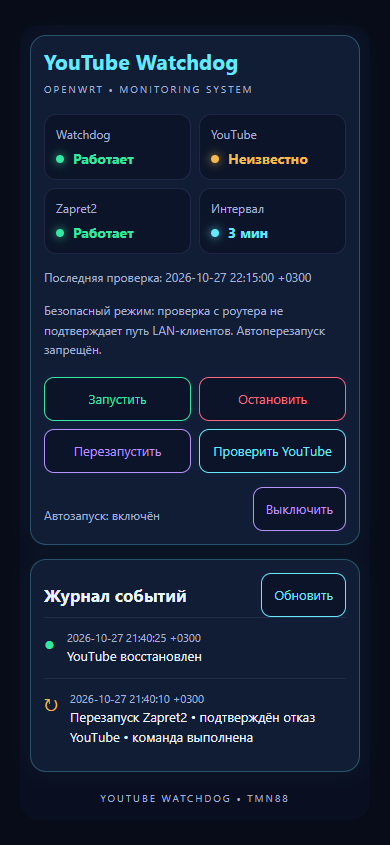
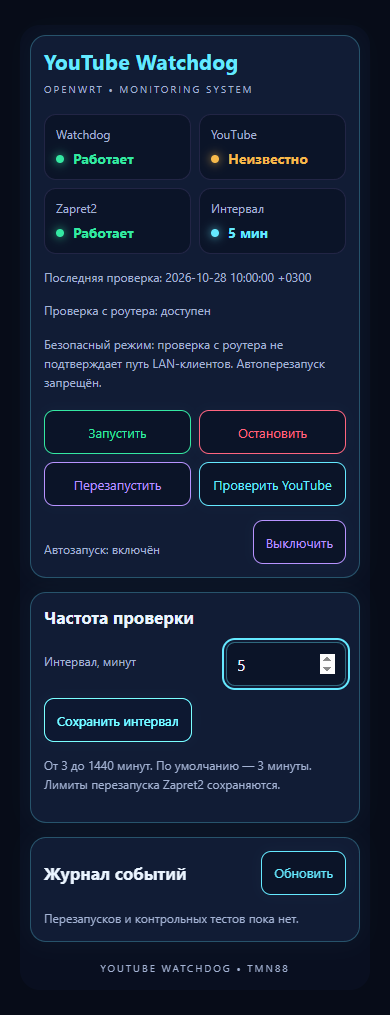
Add validated LuCI check interval settings and explicit router-local diagnosis (1.1.0)

diff --git a/preview.html b/preview.html
@@ -1,9 +1,18 @@
-<!doctype html><meta charset="utf-8"><meta name="viewport" content="width=device-width, initial-scale=1"><title>YouTube Watchdog — demo</title><body style="background:#070c18;margin:0;padding:20px"><script>
-var state={running:true,enabled:true,zapret_running:true,youtube:'UNKNOWN',reason:'router_local_only',interval:180,checked_at:'2026-10-27 22:15:00 +0300'};
-var entries={events:[{record:JSON.stringify({type:'control',at:'2026-10-27 21:40:25 +0300',status:'restored'})},{record:JSON.stringify({type:'restart',at:'2026-10-27 21:40:10 +0300',status:'success'})}]};
-window.calls=[];window.polls=[];
-var E=function(tag,attrs,children){var e=document.createElement(tag); Object.keys(attrs||{}).forEach(function(k){e.setAttribute(k,attrs[k])});if(children!=null)(Array.isArray(children)?children:[children]).forEach(function(c){e.appendChild(c instanceof Node?c:document.createTextNode(String(c)))});return e};
-var L={hasViewPermission:function(){return true}},ui={},poll={add:function(f){window.polls.push(f)}},view={extend:function(v){return v}},rpc={declare:function(o){return function(){calls.push(o.method);if(o.method==='status')return Promise.resolve(state);if(o.method==='logs')return Promise.resolve(entries);if(o.method==='stop')state.running=false;if(o.method==='start'||o.method==='restart')state.running=true;if(o.method==='enable')state.enabled=true;if(o.method==='disable')state.enabled=false;return Promise.resolve({ok:true})}}};
+<!doctype html><meta charset="utf-8"><meta name="viewport" content="width=device-width, initial-scale=1"><title>YouTube Watchdog — демонстрационные данные</title><body style="background:#070c18;margin:0;padding:20px"><script>
+window.writeAllowed=true;window.calls=[];window.polls=[];window.failInterval=false;
+var state={running:true,enabled:true,zapret_running:true,youtube:'UNKNOWN',local_probe:'HEALTHY',reason:'router_local_only',interval:180,checked_at:'2026-10-28 10:00:00 +0300'};
+var entries={events:[]};
+var E=function(tag,attrs,children){var e=document.createElement(tag);Object.keys(attrs||{}).forEach(function(k){e.setAttribute(k,attrs[k])});if(children!=null)(Array.isArray(children)?children:[children]).forEach(function(c){e.appendChild(c instanceof Node?c:document.createTextNode(String(c)))});return e};
+var L={hasViewPermission:function(){return window.writeAllowed}},ui={},poll={add:function(f){window.polls.push(f)}},view={extend:function(v){return v}},rpc={declare:function(o){return function(minutes){
+ calls.push({method:o.method,minutes:minutes});
+ if(o.method==='status')return Promise.resolve(state);
+ if(o.method==='logs')return Promise.resolve(entries);
+ if(o.method==='set_interval')return new Promise(function(resolve){setTimeout(function(){if(window.failInterval)return resolve({ok:false,message:'Ошибка тестового сохранения'});state.interval=minutes*60;resolve({ok:true});},80)});
+ if(o.method==='stop')state.running=false;
+ if(o.method==='start'||o.method==='restart')state.running=true;
+ if(o.method==='enable')state.enabled=true;if(o.method==='disable')state.enabled=false;
+ return Promise.resolve({ok:true});
+}}};
 var app=(function(){'use strict';
 'require view';
 'require rpc';
@@ -12,6 +21,7 @@ var app=(function(){'use strict';
 
 var statusCall = rpc.declare({ object: 'youtube-watchdog', method: 'status', expect: {} });
 var logsCall = rpc.declare({ object: 'youtube-watchdog', method: 'logs', expect: {} });
+var setIntervalCall = rpc.declare({ object: 'youtube-watchdog', method: 'set_interval', params: ['minutes'], expect: {} });
 var actions = {};
 ['start', 'stop', 'restart', 'enable', 'disable', 'check'].forEach(function(name) {
     actions[name] = rpc.declare({ object: 'youtube-watchdog', method: name, expect: {} });
@@ -39,6 +49,9 @@ var css = `
 .youtube-watchdog-icon{font-size:18px}.youtube-watchdog-time{color:#A4B3D4;font-size:11px}
 .youtube-watchdog-footer{text-align:center;color:#A4B3D4;font-size:10px;letter-spacing:2px;padding:5px}
 .youtube-watchdog-error{color:#FF657F;margin-top:12px;font-size:13px}
+.youtube-watchdog-root .youtube-watchdog-input{background:#0B1428;color:#EAF4FF;border:1px solid #65E9FF66;border-radius:9px;padding:10px;width:120px;min-height:44px;font:inherit}
+.youtube-watchdog-root .youtube-watchdog-input:focus{outline:2px solid #65E9FF;outline-offset:2px}
+.youtube-watchdog-root .youtube-watchdog-input:disabled{opacity:.5}
 @media(max-width:480px){.youtube-watchdog-root{padding:10px;margin:5px 0}.youtube-watchdog-card{padding:13px}.youtube-watchdog-title{font-size:21px}.youtube-watchdog-tile{padding:11px}.youtube-watchdog-value{font-size:14px}.youtube-watchdog-grid{gap:8px}}
 `;
 return view.extend({
@@ -52,7 +65,11 @@ return view.extend({
         var journal = E('div', { 'class': 'youtube-watchdog-card' });
         var error = E('div', { 'class': 'youtube-watchdog-error', 'role': 'alert' });
         var buttons = [];
-        function disable(value) { buttons.forEach(function(b) { b.disabled = value || (!canWrite && b.dataset.write === '1'); }); }
+        var settingsControls = [];
+        function disable(value) {
+            buttons.forEach(function(b) { b.disabled = value || (!canWrite && b.dataset.write === '1'); });
+            settingsControls.forEach(function(b) { b.disabled = busy || !canWrite; });
+        }
         function button(text, color, action) {
             var b = E('button', { 'class': 'youtube-watchdog-button youtube-watchdog-' + color, 'type': 'button' }, text);
             b.dataset.write = action === 'refresh' ? '0' : '1';
@@ -62,7 +79,7 @@ return view.extend({
                 Promise.resolve().then(function() {
                     return action === 'refresh' ? null : actions[action]();
                 }).then(function(result) {
-                    if (result && !result.ok) throw new Error('Действие не выполнено. Возможно, уже идёт проверка.');
+                    if (result && !result.ok) throw new Error(result.message || 'Действие не выполнено. Возможно, уже идёт проверка.');
                     // check is queued server-side; all measurements remain in the backend.
                     return refresh();
                 }).catch(function(e) {
@@ -87,9 +104,11 @@ return view.extend({
                 tile('Watchdog', s.running ? 'Работает' : 'Остановлен', s.running ? 'ok' : 'bad'),
                 tile('YouTube', yt, y === 'HEALTHY' ? 'ok' : y === 'YOUTUBE_DOWN' ? 'bad' : 'warn'),
                 tile('Zapret2', s.zapret_running ? 'Работает' : 'Остановлен', s.zapret_running ? 'ok' : 'bad'),
-                tile('Интервал', String(Math.round((s.interval || 180) / 60)) + ' мин', 'cyan')
+                tile('Интервал', (s.interval || 180) % 60 ? String(s.interval) + ' сек' : String((s.interval || 180) / 60) + ' мин', 'cyan')
             ]));
             stateCard.appendChild(E('div', { 'class': 'youtube-watchdog-meta' }, 'Последняя проверка: ' + (s.checked_at || '—') + (s.checking ? ' • Проверка выполняется…' : '')));
+            var localText = { HEALTHY: 'доступен', YOUTUBE_DOWN: 'недоступен', DNS_DOWN: 'ошибка DNS', NETWORK_DOWN: 'ошибка сети', UNKNOWN: 'нет достоверного результата' };
+            stateCard.appendChild(E('div', { 'class': 'youtube-watchdog-meta' }, 'Проверка с роутера: ' + (localText[s.local_probe] || 'нет достоверного результата')));
             var notice = s.reason === 'router_local_only'
                 ? 'Безопасный режим: проверка с роутера не подтверждает путь LAN-клиентов. Автоперезапуск запрещён.'
                 : 'Проверяется доступность HTTPS с диагностического клиента. Воспроизведение видео не гарантируется.';
@@ -111,6 +130,36 @@ return view.extend({
         var events = E('div');
         journal.appendChild(E('div', { 'class': 'youtube-watchdog-row' }, [E('span', { 'class': 'youtube-watchdog-heading' }, 'Журнал событий'), button('Обновить', 'cyan', 'refresh')]));
         journal.appendChild(events);
+        var dirtyInterval = false;
+        var intervalInput = E('input', { 'class': 'youtube-watchdog-input', 'id': 'youtube-watchdog-interval', 'type': 'number', 'min': '3', 'max': '1440', 'step': '1', 'inputmode': 'numeric', 'aria-describedby': 'youtube-watchdog-interval-help' });
+        intervalInput.value = String(Math.ceil((data[0].interval || 180) / 60));
+        var intervalNotice = E('div', { 'class': 'youtube-watchdog-meta', 'aria-live': 'polite' });
+        intervalInput.oninput = function() { dirtyInterval = true; intervalNotice.textContent = ''; };
+        var saveInterval = E('button', { 'class': 'youtube-watchdog-button youtube-watchdog-cyan', 'type': 'button' }, 'Сохранить интервал');
+        saveInterval.onclick = function() {
+            if (busy || !canWrite) return;
+            var raw = intervalInput.value.trim(), minutes = Number(raw);
+            if (!/^[0-9]+$/.test(raw) || minutes < 3 || minutes > 1440) {
+                intervalNotice.textContent = 'Укажите целое число минут от 3 до 1440.'; return;
+            }
+            busy = true; disable(true); error.textContent = ''; intervalNotice.textContent = 'Сохранение…';
+            Promise.resolve().then(function() { return setIntervalCall(minutes); }).then(function(result) {
+                if (!result.ok) throw new Error(result.message || 'Не удалось сохранить интервал');
+                dirtyInterval = false;
+                intervalNotice.textContent = 'Интервал сохранён: ' + minutes + ' мин. Применяется автоматически, без перезапуска службы.';
+                return refresh();
+            }).catch(function(e) { intervalNotice.textContent = e.message || String(e); }).finally(function() {
+                busy = false; disable(serverBusy);
+            });
+        };
+        settingsControls.push(intervalInput, saveInterval);
+        var settings = E('div', { 'class': 'youtube-watchdog-card' }, [
+            E('div', { 'class': 'youtube-watchdog-heading' }, 'Частота проверки'),
+            E('div', { 'class': 'youtube-watchdog-row', 'style': 'margin-top:14px' }, [
+                E('label', { 'for': 'youtube-watchdog-interval', 'class': 'youtube-watchdog-label' }, 'Интервал, минут'), intervalInput, saveInterval
+            ]),
+            E('div', { 'class': 'youtube-watchdog-meta', 'id': 'youtube-watchdog-interval-help' }, 'От 3 до 1440 минут. По умолчанию — 3 минуты. Лимиты перезапуска Zapret2 сохраняются.'), intervalNotice
+        ]);
         function drawLogs(l) {
             events.textContent = '';
             (l.events || []).forEach(function(item) {
@@ -128,10 +177,14 @@ return view.extend({
             if (!events.childNodes.length) events.appendChild(E('div', { 'class': 'youtube-watchdog-meta' }, 'Перезапусков и контрольных тестов пока нет.'));
         }
         function refresh() {
-            return Promise.all([statusCall(), logsCall()]).then(function(d) { drawStatus(d[0]); drawLogs(d[1]); disable(busy || !!d[0].checking); });
+            return Promise.all([statusCall(), logsCall()]).then(function(d) {
+                drawStatus(d[0]); drawLogs(d[1]);
+                if (!dirtyInterval && document.activeElement !== intervalInput) intervalInput.value = String(Math.ceil((d[0].interval || 180) / 60));
+                disable(busy || !!d[0].checking);
+            });
         }
         drawStatus(data[0]); drawLogs(data[1]); disable(serverBusy);
-        root.appendChild(stateCard); root.appendChild(journal); root.appendChild(error);
+        root.appendChild(stateCard); root.appendChild(settings); root.appendChild(journal); root.appendChild(error);
         root.appendChild(E('div', { 'class': 'youtube-watchdog-footer' }, 'YOUTUBE WATCHDOG • TMN88'));
         poll.add(function() { if (!busy) return refresh().catch(function(e) { error.textContent = 'Ошибка обновления: ' + e.message; }); }, 5);
         return root;

diff --git a/files/overview.js b/files/overview.js
@@ -6,6 +6,7 @@
 
 var statusCall = rpc.declare({ object: 'youtube-watchdog', method: 'status', expect: {} });
 var logsCall = rpc.declare({ object: 'youtube-watchdog', method: 'logs', expect: {} });
+var setIntervalCall = rpc.declare({ object: 'youtube-watchdog', method: 'set_interval', params: ['minutes'], expect: {} });
 var actions = {};
 ['start', 'stop', 'restart', 'enable', 'disable', 'check'].forEach(function(name) {
     actions[name] = rpc.declare({ object: 'youtube-watchdog', method: name, expect: {} });
@@ -33,6 +34,9 @@ var css = `
 .youtube-watchdog-icon{font-size:18px}.youtube-watchdog-time{color:#A4B3D4;font-size:11px}
 .youtube-watchdog-footer{text-align:center;color:#A4B3D4;font-size:10px;letter-spacing:2px;padding:5px}
 .youtube-watchdog-error{color:#FF657F;margin-top:12px;font-size:13px}
+.youtube-watchdog-root .youtube-watchdog-input{background:#0B1428;color:#EAF4FF;border:1px solid #65E9FF66;border-radius:9px;padding:10px;width:120px;min-height:44px;font:inherit}
+.youtube-watchdog-root .youtube-watchdog-input:focus{outline:2px solid #65E9FF;outline-offset:2px}
+.youtube-watchdog-root .youtube-watchdog-input:disabled{opacity:.5}
 @media(max-width:480px){.youtube-watchdog-root{padding:10px;margin:5px 0}.youtube-watchdog-card{padding:13px}.youtube-watchdog-title{font-size:21px}.youtube-watchdog-tile{padding:11px}.youtube-watchdog-value{font-size:14px}.youtube-watchdog-grid{gap:8px}}
 `;
 return view.extend({
@@ -46,7 +50,11 @@ return view.extend({
         var journal = E('div', { 'class': 'youtube-watchdog-card' });
         var error = E('div', { 'class': 'youtube-watchdog-error', 'role': 'alert' });
         var buttons = [];
-        function disable(value) { buttons.forEach(function(b) { b.disabled = value || (!canWrite && b.dataset.write === '1'); }); }
+        var settingsControls = [];
+        function disable(value) {
+            buttons.forEach(function(b) { b.disabled = value || (!canWrite && b.dataset.write === '1'); });
+            settingsControls.forEach(function(b) { b.disabled = busy || !canWrite; });
+        }
         function button(text, color, action) {
             var b = E('button', { 'class': 'youtube-watchdog-button youtube-watchdog-' + color, 'type': 'button' }, text);
             b.dataset.write = action === 'refresh' ? '0' : '1';
@@ -56,7 +64,7 @@ return view.extend({
                 Promise.resolve().then(function() {
                     return action === 'refresh' ? null : actions[action]();
                 }).then(function(result) {
-                    if (result && !result.ok) throw new Error('Действие не выполнено. Возможно, уже идёт проверка.');
+                    if (result && !result.ok) throw new Error(result.message || 'Действие не выполнено. Возможно, уже идёт проверка.');
                     // check is queued server-side; all measurements remain in the backend.
                     return refresh();
                 }).catch(function(e) {
@@ -81,9 +89,11 @@ return view.extend({
                 tile('Watchdog', s.running ? 'Работает' : 'Остановлен', s.running ? 'ok' : 'bad'),
                 tile('YouTube', yt, y === 'HEALTHY' ? 'ok' : y === 'YOUTUBE_DOWN' ? 'bad' : 'warn'),
                 tile('Zapret2', s.zapret_running ? 'Работает' : 'Остановлен', s.zapret_running ? 'ok' : 'bad'),
-                tile('Интервал', String(Math.round((s.interval || 180) / 60)) + ' мин', 'cyan')
+                tile('Интервал', (s.interval || 180) % 60 ? String(s.interval) + ' сек' : String((s.interval || 180) / 60) + ' мин', 'cyan')
             ]));
             stateCard.appendChild(E('div', { 'class': 'youtube-watchdog-meta' }, 'Последняя проверка: ' + (s.checked_at || '—') + (s.checking ? ' • Проверка выполняется…' : '')));
+            var localText = { HEALTHY: 'доступен', YOUTUBE_DOWN: 'недоступен', DNS_DOWN: 'ошибка DNS', NETWORK_DOWN: 'ошибка сети', UNKNOWN: 'нет достоверного результата' };
+            stateCard.appendChild(E('div', { 'class': 'youtube-watchdog-meta' }, 'Проверка с роутера: ' + (localText[s.local_probe] || 'нет достоверного результата')));
             var notice = s.reason === 'router_local_only'
                 ? 'Безопасный режим: проверка с роутера не подтверждает путь LAN-клиентов. Автоперезапуск запрещён.'
                 : 'Проверяется доступность HTTPS с диагностического клиента. Воспроизведение видео не гарантируется.';
@@ -105,6 +115,36 @@ return view.extend({
         var events = E('div');
         journal.appendChild(E('div', { 'class': 'youtube-watchdog-row' }, [E('span', { 'class': 'youtube-watchdog-heading' }, 'Журнал событий'), button('Обновить', 'cyan', 'refresh')]));
         journal.appendChild(events);
+        var dirtyInterval = false;
+        var intervalInput = E('input', { 'class': 'youtube-watchdog-input', 'id': 'youtube-watchdog-interval', 'type': 'number', 'min': '3', 'max': '1440', 'step': '1', 'inputmode': 'numeric', 'aria-describedby': 'youtube-watchdog-interval-help' });
+        intervalInput.value = String(Math.ceil((data[0].interval || 180) / 60));
+        var intervalNotice = E('div', { 'class': 'youtube-watchdog-meta', 'aria-live': 'polite' });
+        intervalInput.oninput = function() { dirtyInterval = true; intervalNotice.textContent = ''; };
+        var saveInterval = E('button', { 'class': 'youtube-watchdog-button youtube-watchdog-cyan', 'type': 'button' }, 'Сохранить интервал');
+        saveInterval.onclick = function() {
+            if (busy || !canWrite) return;
+            var raw = intervalInput.value.trim(), minutes = Number(raw);
+            if (!/^[0-9]+$/.test(raw) || minutes < 3 || minutes > 1440) {
+                intervalNotice.textContent = 'Укажите целое число минут от 3 до 1440.'; return;
+            }
+            busy = true; disable(true); error.textContent = ''; intervalNotice.textContent = 'Сохранение…';
+            Promise.resolve().then(function() { return setIntervalCall(minutes); }).then(function(result) {
+                if (!result.ok) throw new Error(result.message || 'Не удалось сохранить интервал');
+                dirtyInterval = false;
+                intervalNotice.textContent = 'Интервал сохранён: ' + minutes + ' мин. Применяется автоматически, без перезапуска службы.';
+                return refresh();
+            }).catch(function(e) { intervalNotice.textContent = e.message || String(e); }).finally(function() {
+                busy = false; disable(serverBusy);
+            });
+        };
+        settingsControls.push(intervalInput, saveInterval);
+        var settings = E('div', { 'class': 'youtube-watchdog-card' }, [
+            E('div', { 'class': 'youtube-watchdog-heading' }, 'Частота проверки'),
+            E('div', { 'class': 'youtube-watchdog-row', 'style': 'margin-top:14px' }, [
+                E('label', { 'for': 'youtube-watchdog-interval', 'class': 'youtube-watchdog-label' }, 'Интервал, минут'), intervalInput, saveInterval
+            ]),
+            E('div', { 'class': 'youtube-watchdog-meta', 'id': 'youtube-watchdog-interval-help' }, 'От 3 до 1440 минут. По умолчанию — 3 минуты. Лимиты перезапуска Zapret2 сохраняются.'), intervalNotice
+        ]);
         function drawLogs(l) {
             events.textContent = '';
             (l.events || []).forEach(function(item) {
@@ -122,10 +162,14 @@ return view.extend({
             if (!events.childNodes.length) events.appendChild(E('div', { 'class': 'youtube-watchdog-meta' }, 'Перезапусков и контрольных тестов пока нет.'));
         }
         function refresh() {
-            return Promise.all([statusCall(), logsCall()]).then(function(d) { drawStatus(d[0]); drawLogs(d[1]); disable(busy || !!d[0].checking); });
+            return Promise.all([statusCall(), logsCall()]).then(function(d) {
+                drawStatus(d[0]); drawLogs(d[1]);
+                if (!dirtyInterval && document.activeElement !== intervalInput) intervalInput.value = String(Math.ceil((d[0].interval || 180) / 60));
+                disable(busy || !!d[0].checking);
+            });
         }
         drawStatus(data[0]); drawLogs(data[1]); disable(serverBusy);
-        root.appendChild(stateCard); root.appendChild(journal); root.appendChild(error);
+        root.appendChild(stateCard); root.appendChild(settings); root.appendChild(journal); root.appendChild(error);
         root.appendChild(E('div', { 'class': 'youtube-watchdog-footer' }, 'YOUTUBE WATCHDOG • TMN88'));
         poll.add(function() { if (!busy) return refresh().catch(function(e) { error.textContent = 'Ошибка обновления: ' + e.message; }); }, 5);
         return root;

diff --git a/README.md b/README.md
@@ -12,7 +12,7 @@
 wget -O /tmp/youtube-watchdog-install.sh https://raw.githubusercontent.com/TMN88/youtube-watchdog/main/install.sh && sh /tmp/youtube-watchdog-install.sh
 ```
 
-Выполнять от root на OpenWrt с LuCI. Установщик проверяет версию, определяет apk/opkg, устанавливает только недостающие `curl ca-bundle flock rpcd luci-base`, скачивает комплект **1.0.0** по закреплённому commit, сверяет SHA256SUMS, проверяет shell и JSON, размещает файлы и регистрирует RPC. Затем включает автозапуск и запускает Watchdog. Если LuCI уже открыта, обновите вкладку. Отдельная Custom Commands не требуется.
+Выполнять от root на OpenWrt с LuCI. Установщик проверяет версию, определяет apk/opkg, устанавливает только недостающие `curl ca-bundle flock rpcd luci-base` (и `coreutils-timeout`, если нет команды timeout), скачивает комплект **1.1.0** по закреплённому commit, сверяет SHA256SUMS, проверяет shell и JSON, размещает файлы и регистрирует RPC. Затем включает автозапуск и запускает Watchdog. Если LuCI уже открыта, обновите вкладку. Отдельная Custom Commands не требуется.
 
 При повторной установке существующий `/etc/config/youtube-watchdog` сохраняется целиком. Файлы предыдущей версии сохраняются во временной папке до окончания установки; ошибка применения вызывает откат файлов и прежнего состояния службы. Зависимости не удаляются при откате. SHA256SUMS защищает от неполной/несогласованной загрузки; это не независимая цифровая подпись.
 
@@ -25,6 +25,12 @@ wget -O /tmp/youtube-watchdog-install.sh https://raw.githubusercontent.com/TMN88
 ### Исправление установщика 1.0.2
 
 Установщик освобождает блокировку проверки перед запуском procd-службы. В версиях до 1.0.2 первый фоновый цикл мог пропускаться, пока установщик ещё держал блокировку, поэтому время первой проверки появлялось только после следующего интервала или ручного `youtube-watchdog check`. Переустановка для уже работающей службы не обязательна: ручная проверка безопасна и не перезапускает Zapret2. Если локальная проверка прошла, `local_probe` показывает HEALTHY, но в безопасном режиме клиентский `youtube` остаётся UNKNOWN.
+
+### Настройка частоты — 1.1.0
+
+В LuCI → Службы → YouTube Watchdog появилась карточка **«Частота проверки»**. Укажите целое число от **3 до 1440 минут** и нажмите **«Сохранить интервал»**. По умолчанию — 3 минуты. Настройка сохраняется в собственный UCI-параметр Watchdog и подхватывается работающим демоном без перезапуска: ожидание следующей проверки пересчитывается в течение 5 секунд. Выполняющийся сетевой тест не прерывается. При увеличении интервала ожидание продлевается, при уменьшении уже истёкшего интервала проверка запускается после обработки изменения. Повторное сохранение того же значения не записывает UCI заново. Неверный тип, дробь и значения вне диапазона отклоняются сервером; RPC может изменять только этот параметр.
+
+Изменение интервала не меняет лимиты восстановления Zapret2. Поле ввода не сбрасывается при автоматическом обновлении страницы. Строка **«Проверка с роутера»** отдельно показывает локальную диагностику; верхний клиентский статус YouTube в безопасном режиме остаётся UNKNOWN. Доступность HTTPS с роутера не доказывает воспроизведение видео у клиентов.
 
 ## Работа
 
@@ -69,7 +75,7 @@ config watchdog 'main'
     option client_confirmed '0'
 ```
 
-Интервал ограничен диапазоном 180–86400 секунд; некорректное значение заменяется на 180. Изменения применяются в следующем цикле; можно выполнить `/etc/init.d/youtube-watchdog restart`. Предыдущий результат после изменения UCI или истечения срока годности отображается как UNKNOWN. Причины представлены стабильными кодами в `status`.
+В UCI интервал хранится в секундах: диапазон 180–86400; некорректное значение заменяется на 180. В LuCI настройка задаётся целыми минутами и применяется автоматически. При ручном редактировании UCI можно выполнить `/etc/init.d/youtube-watchdog restart`, чтобы применить изменение сразу. Предыдущий результат после изменения UCI или истечения срока годности отображается как UNKNOWN. Причины представлены стабильными кодами в `status`.
 
 ## Удаление
 
@@ -87,7 +93,7 @@ wget -O /tmp/youtube-watchdog-uninstall.sh https://raw.githubusercontent.com/TMN
 
 ## Интерфейс
 
-Реальный JavaScript view LuCI, собственный RPC объект `youtube-watchdog`, ACL только на восемь фиксированных методов; без доступа к произвольным файлам, командам или записи UCI через браузер. Непривилегированным сессиям без write-доступа управление недоступно. Все данные журнала выводятся текстом, без вставки HTML. Стили ограничены префиксом `youtube-watchdog-`, системные шрифты, без внешних ресурсов.
+Реальный JavaScript view LuCI, собственный RPC объект `youtube-watchdog`, ACL только на девять фиксированных методов. Нет доступа к произвольным файлам, командам или произвольной записи UCI через браузер; метод настройки может менять только интервал Watchdog и проверяет тип и диапазон значения. Непривилегированным сессиям без write-доступа управление недоступно. Все данные журнала выводятся текстом, без вставки HTML. Стили ограничены префиксом `youtube-watchdog-`, системные шрифты, без внешних ресурсов.
 
 ![Демонстрация интерфейса; данные подставные](preview-desktop.png)
 

diff --git a/VALIDATION.md b/VALIDATION.md
@@ -30,6 +30,12 @@ sha256sum -c SHA256SUMS
 
 На cudy_wr3000s_7 пользователь подтвердил установку 1.0.1 с работающими Watchdog/procd и Zapret2; ручной `youtube-watchdog check` вернул local_probe=HEALTHY и заполнил checked_at. Клиентский статус остался UNKNOWN в безопасном режиме. Это подтверждает ручной локальный probe и сохранение результата на этом роутере, но не проверку LAN-пути, автоматическое восстановление или отображение LuCI.
 
+## Настройка интервала 1.1.0
+
+Добавлены 14 адресных RPC-проверок: границы 3/1440 минут, обычное сохранение, отсутствие повторной записи того же значения, отклонение дробей/строк/отрицательных/слишком больших/пропущенных значений и инъекций, сообщение об ошибке commit. Проверяется запись только youtube-watchdog.main.interval и уведомление работающего демона. Два сценария планировщика проверяют уменьшение и увеличение интервала во время текущего ожидания. Служебные проверки: 37 Windows / 39 Linux с учётом новых сценариев.
+
+Реальный JavaScript view проверен в отдельном Chromium с имитацией LuCI/RPC: сохранение 5 минут, защита от двойного клика, валидация, ошибка сервера, сохранение незавершённого ввода при polling, запрет изменений для сессии без write-прав, отдельная строка локальной диагностики, мобильная ширина 390 px без переполнения. Предпросмотр и снимки обновлены из реального view. Запуск: node tests/settings.cjs; node tests/ui.cjs (для UI нужен Playwright и локальный Chrome; на роутер они не устанавливаются).
+
 ## Не подтверждено аппаратным испытанием
 
 Настоящие установка/обновление пакетов opkg и apk, загрузка через procd после перезагрузки, регистрация RPC в штатном rpcd, разрешения реальной сессии LuCI, сочетания тем Argon/Footstrap/Aurora и реальный клиентский путь с Zapret2. В этих пунктах реализованы стандартные файлы и интерфейсы OpenWrt, но локальные моки не доказывают совместимость оборудования.
